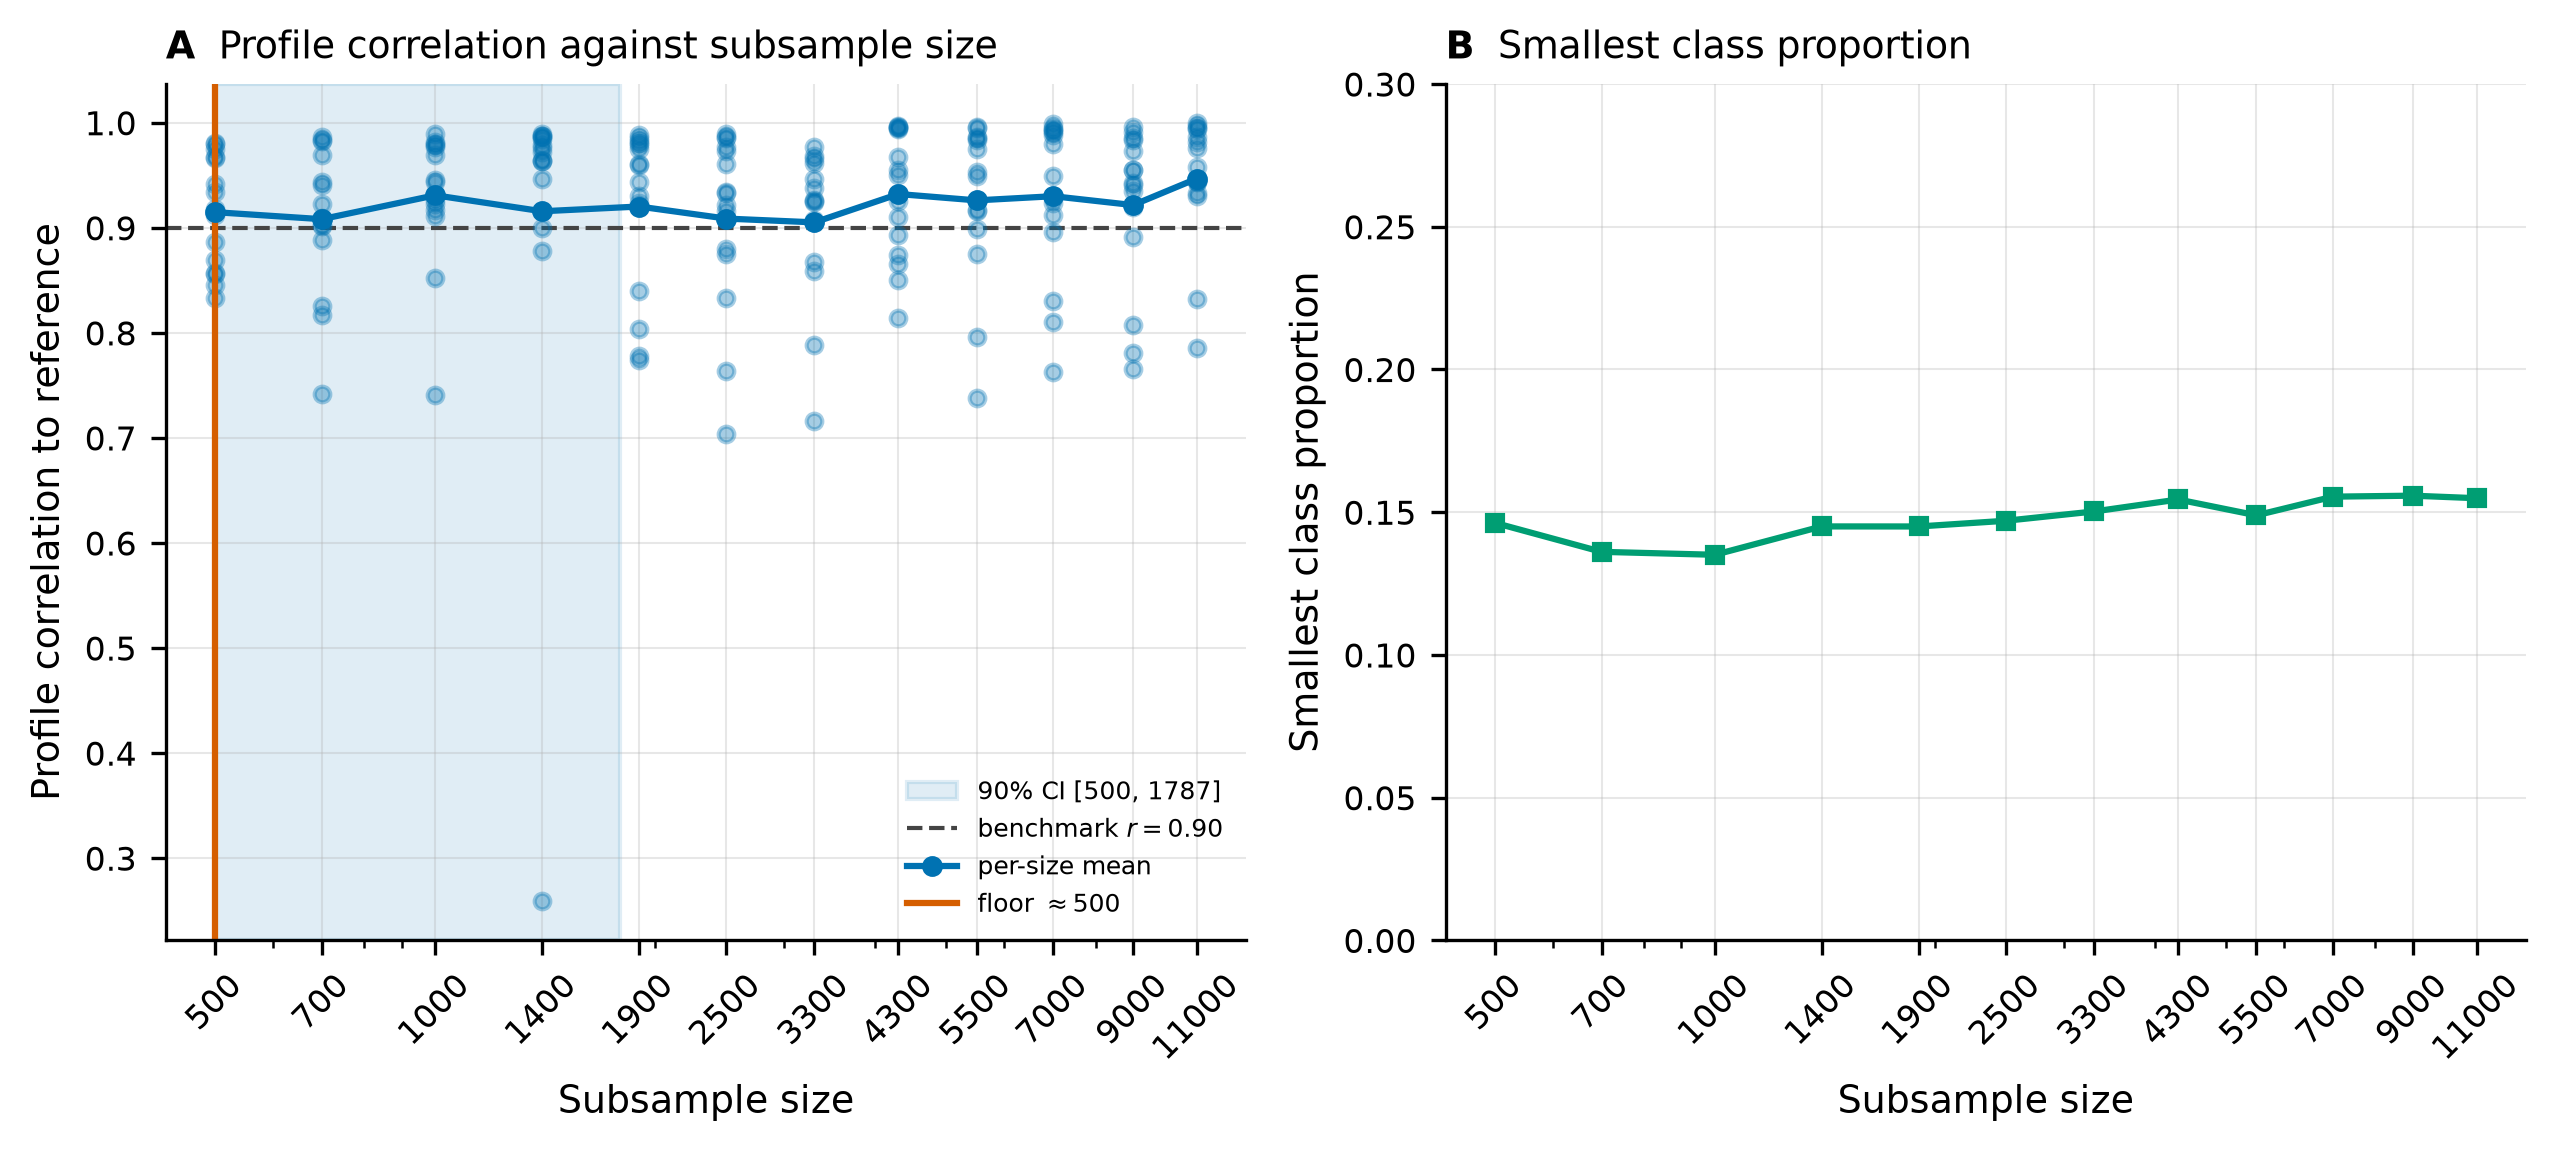
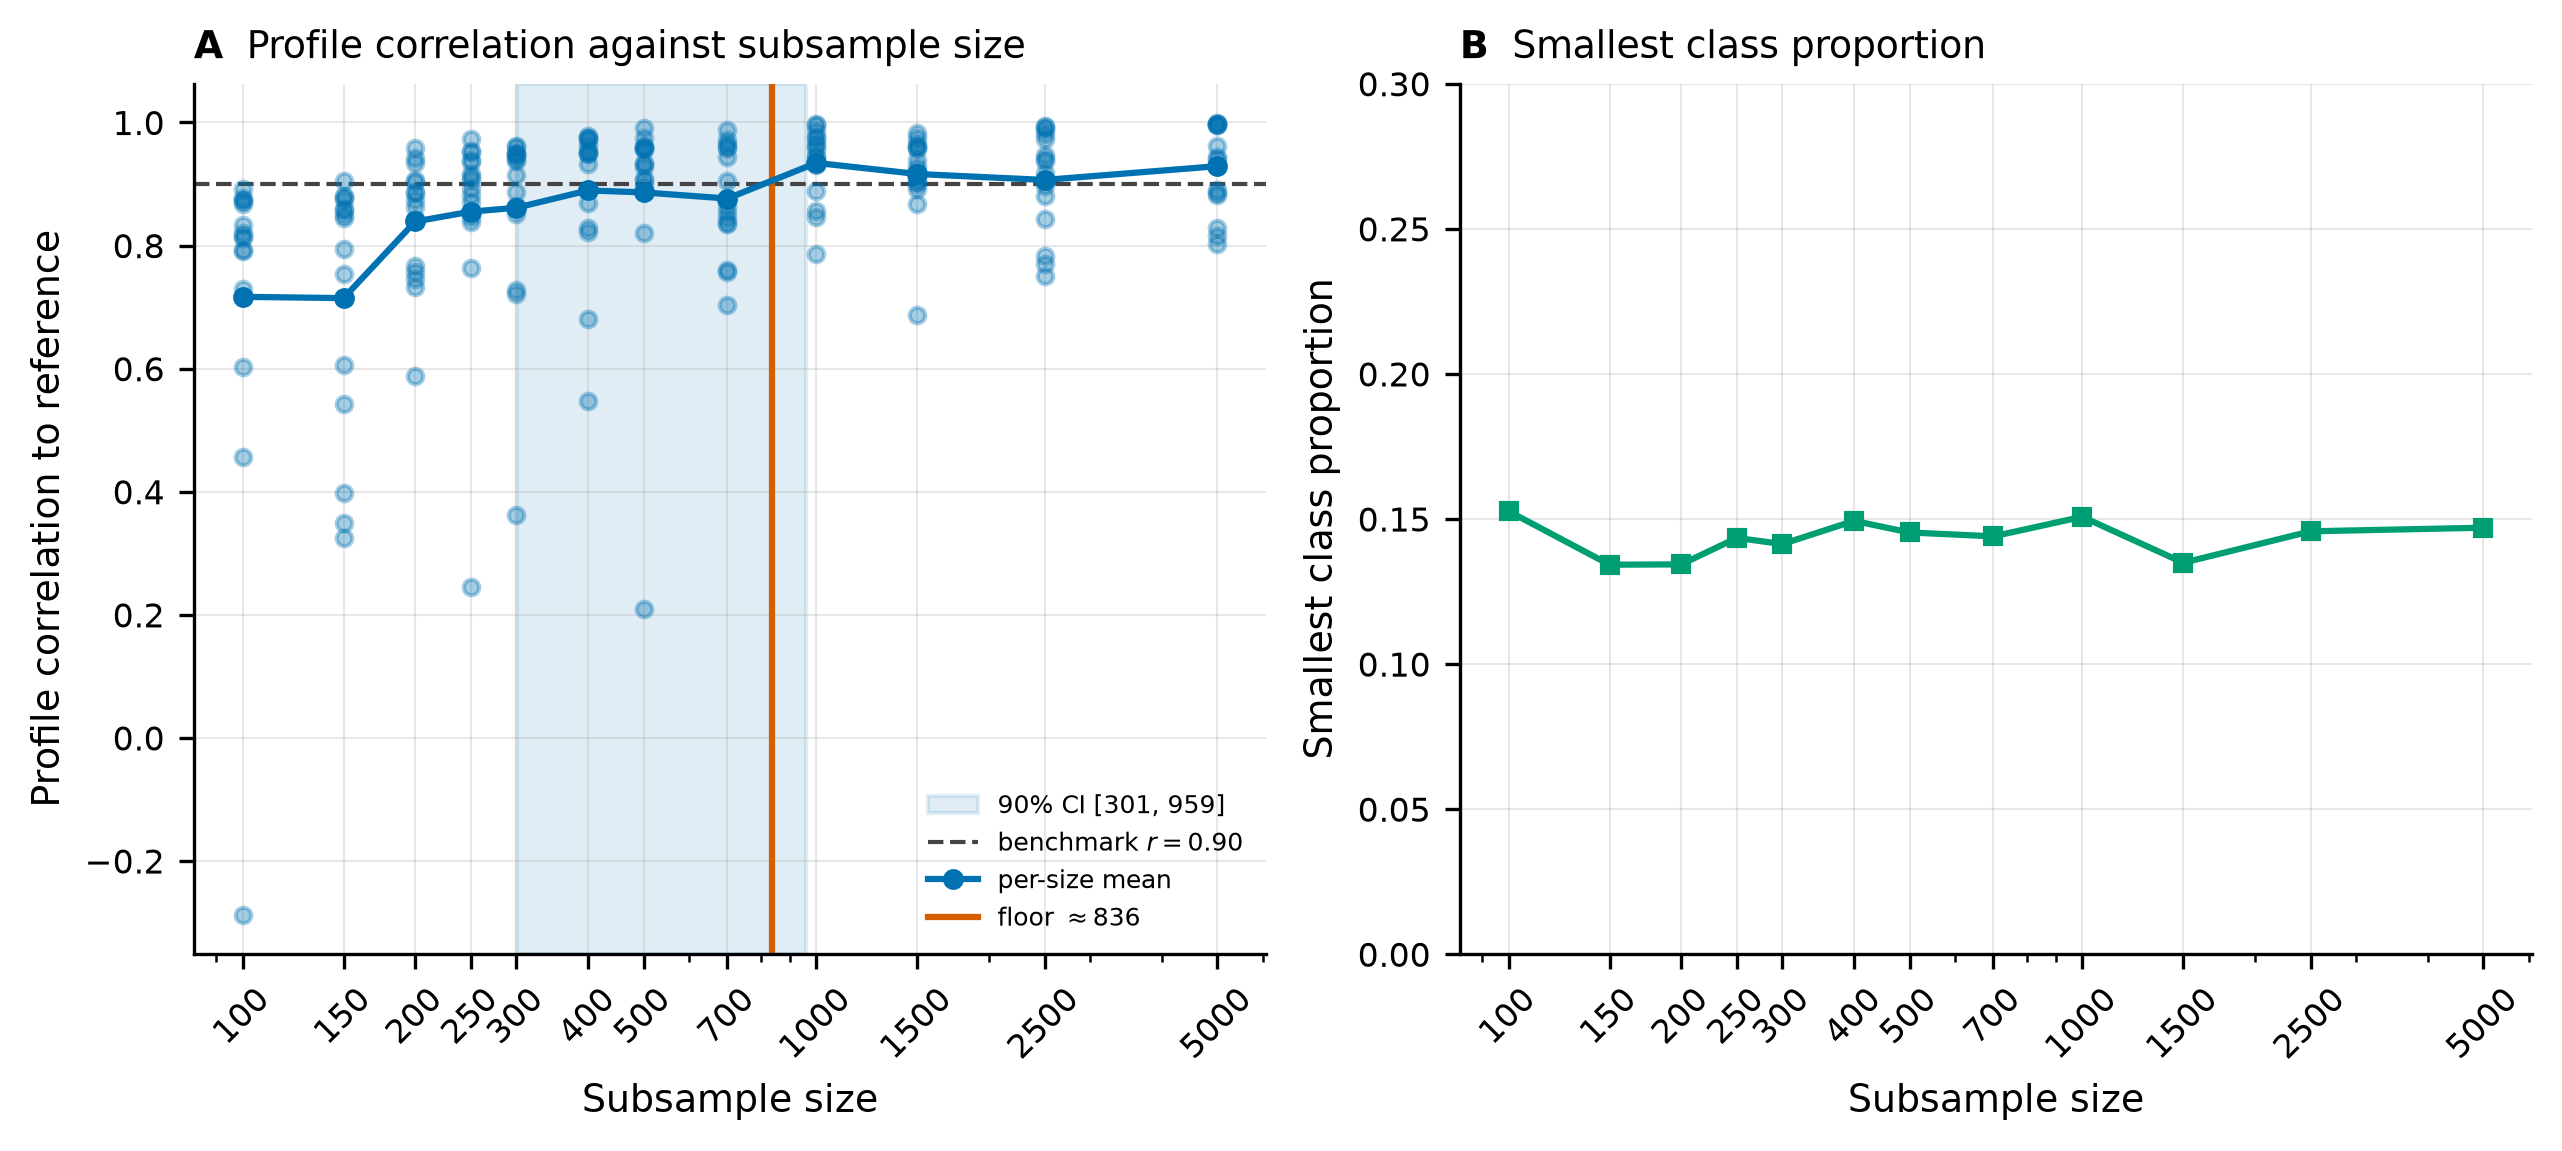
docs(analysis): extend the stratum-size sweep below 500 to bracket the recovery floor
The earlier sweep started at 500 and cleared the benchmark at every size, leaving the floor
pinned at the swept minimum. Running down to 100 probands finds the breakdown: recovery is poor
below about 200 (mean about 0.72), marginal through 700, and clears the benchmark at 1,000, so
the isotonic floor is a genuine crossing at about 840 (90 per cent interval 300 to 960) and the
stratification bins are best kept near 2,000. The figure is re-rendered from the new sweep.

diff --git a/docs/source/packages/analysis/investigations/stability-selection-and-replication.md b/docs/source/packages/analysis/investigations/stability-selection-and-replication.md
@@ -134,36 +134,37 @@ stratification bins.
 
 ## The stratum-size floor
 
-The sweep takes twelve sizes from 500 to 11,000 probands, fifteen refits each, against the
-$r \ge 0.90$ benchmark the reproduction meets. On SPARK 2026-03-23 the per-size mean recovery
-clears the benchmark at every size, from 0.91 at 500 to 0.95 at 11,000, and is close to flat
-across the range rather than climbing from a low floor. The isotonic fit therefore puts the
-floor at 500, the smallest size tested, with a 90 per cent bootstrap interval of 500 to 1,787:
-recovery holds down to at least 500 probands, and the floor is at or below that.
+The sweep takes twelve sizes from 100 to 5,000 probands, fifteen refits each, against the
+$r \ge 0.90$ benchmark the reproduction meets. Going below 500 finds where recovery breaks down:
+on SPARK 2026-03-23 the per-size mean is about 0.72 at 100 and 150 probands, climbs through 0.84
+to 0.89 between 200 and 700, first clears the benchmark at 1,000 (0.93), and stays near 0.91 to
+0.93 from there to 5,000. The isotonic fit puts the floor, where recovery reaches the benchmark,
+at about 840 probands, with a 90 per cent bootstrap interval of 300 to 960; the smallest size to
+clear on its own is 1,000.
 
-No fit collapsed a class at any size; the smallest class stays at about 0.14 to 0.16 of each
-subsample throughout, so the model recovers four non-empty classes down to 500, and the floor
-turns on profile fidelity rather than on a class vanishing. An earlier, sparser sweep put the
-floor near 1,000, but the fifteen-replicate sampling here shows that was inflated by noise at
-the low end, where two independent fits of a small subsample can disagree by more than 0.1.
+The measure is noisy at the small sizes, where a fit on a few hundred probands over more than
+two hundred features is poorly determined and the per-fit scatter is wide below about 700. The
+robust reading is that recovery is poor below about 200 probands, marginal from there to about
+700, and reliable from about 1,000. No fit collapsed a class at any size; the smallest class
+stays at about 0.13 to 0.15 of each subsample throughout, so the floor turns on profile fidelity
+rather than on a class vanishing.
 
-For the stratification bins the interval matters more than the point estimate. Profile fidelity
-holds at 500, but there the smallest class holds only about 75 probands for a profile with
-several hundred free parameters, which is thin; at the upper bound of 1,787 it holds around 260.
-The conservative floor is therefore the upper bound, so the bins are best kept above about 1,800
-probands.
+For the stratification bins this puts the floor near 1,000 probands, where recovery clears
+reliably. There the smallest class holds only about 150 probands for a profile with several
+hundred free parameters, which is thin, so the bins are best kept comfortably above that, nearer
+2,000 where the smallest class has room.
 
 :::{figure} /_figures/stratum_size.png
 :alt: Recovery against subsample size and the minimum viable stratum size
 :width: 100%
 :align: center
 
-Recovery against subsample size, from an `analysis nmin` run (twelve sizes, fifteen refits
-each). (A) Each refit's profile correlation to the full-sample reference, with the per-size
-mean, the $r \ge 0.90$ benchmark, and the isotonic floor at 500 with its 90 per cent bootstrap
-interval (500 to 1,787). The per-size mean clears the benchmark across the whole range, so the
-floor sits at or below the smallest size tested. (B) The smallest class proportion stays near
-0.15 at every size, so no class collapses.
+Recovery against subsample size, from an `analysis nmin` run (twelve sizes from 100 to 5,000,
+fifteen refits each). (A) Each refit's profile correlation to the full-sample reference, with
+the per-size mean, the $r \ge 0.90$ benchmark, and the isotonic floor at about 840 with its 90
+per cent bootstrap interval (300 to 960). Recovery is poor below about 200 probands, climbs
+through the benchmark, and plateaus by 1,000. (B) The smallest class proportion stays near 0.14
+at every size, so no class collapses.
 :::
 
 ## Cross-cohort replication